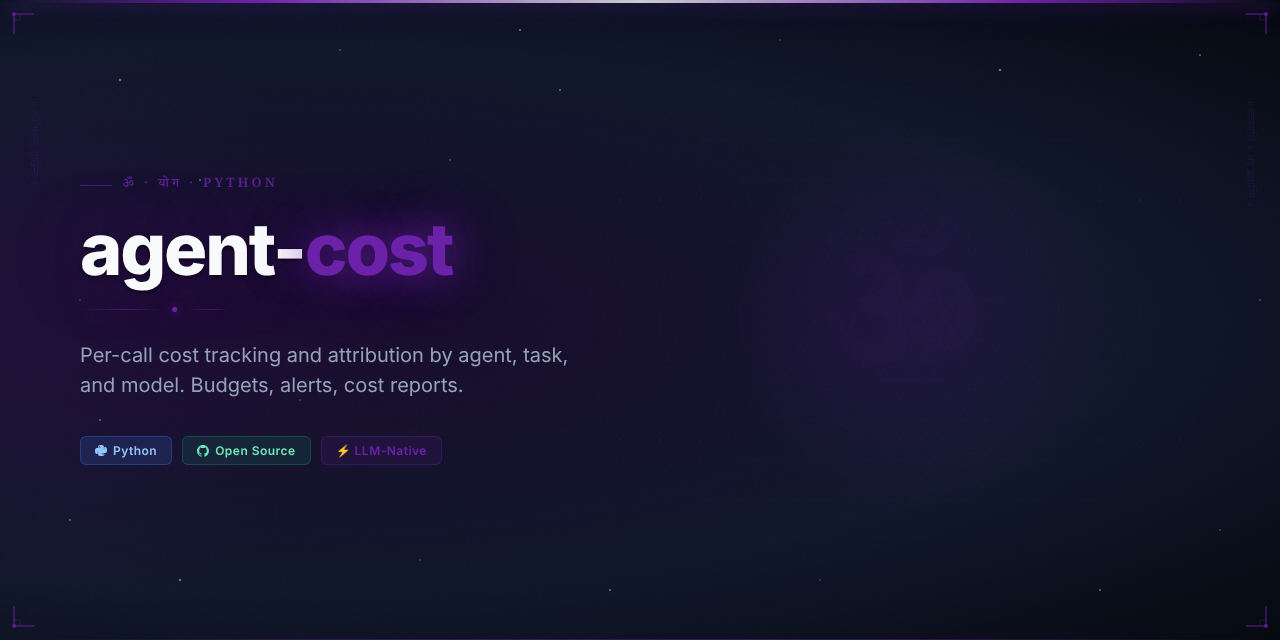
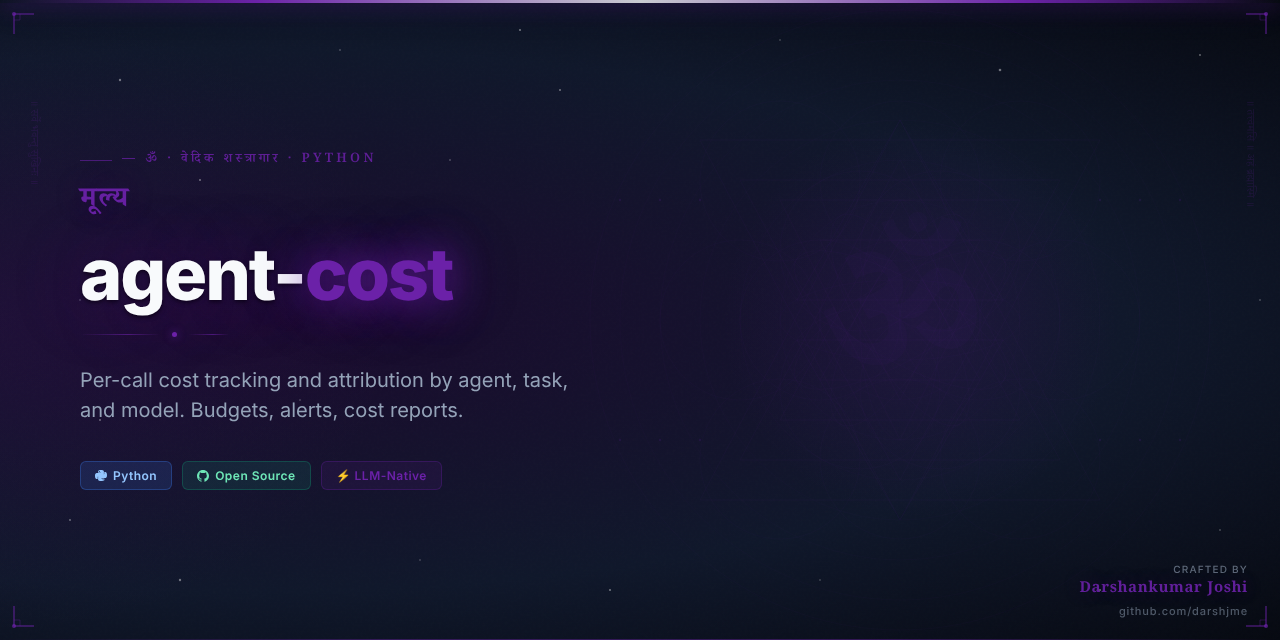
feat: add Vedic Arsenal hero image and updated README
Part of darshjme/arsenal — 100 production-grade Python libraries for LLM agents.
Vedic branding: ancient philosophy meets modern AI engineering.

diff --git a/README.md b/README.md
@@ -1,10 +1,12 @@
 <div align="center">
 
-<img src="assets/agent-cost-hero.png" alt="agent-cost — Vedic Arsenal" width="100%" />
+<img src="assets/agent-cost-hero.png" alt="agent-cost — Vedic Arsenal by Darshankumar Joshi" width="100%" />
 
 # 🔮 agent-cost
 
-### *मूल्य* — Mulya — the true value of computational dharma
+<h3><em>मूल्य</em></h3>
+
+> *Mulya — the true value of computational dharma*
 
 **Per-call cost tracking and attribution by agent, task, and model. Budgets, alerts, cost reports.**
 
@@ -39,6 +41,19 @@ Or clone directly:
 git clone https://github.com/darshjme/agent-cost.git
 cd agent-cost
 pip install -e .
+```
+
+## How It Works
+
+```mermaid
+flowchart LR
+    A[Input] --> B[agent-cost]
+    B --> C{Process}
+    C -- Success --> D[Output]
+    C -- Error --> E[Handle / Retry]
+    E --> B
+    style B fill:#6b21a8,color:#fff
+    note["Cost — Zero Dependencies"]
 ```
 
 ## Quick Start
@@ -90,7 +105,7 @@ MIT — use freely, build freely.
 
 <div align="center">
 
-**Built with 🔮 by [Darshankumar Joshi](https://github.com/darshjme)**
+**Built with 🔮 by [Darshankumar Joshi](https://github.com/darshjme)** · [@thedarshanjoshi](https://twitter.com/thedarshanjoshi)
 
 *"कर्मण्येवाधिकारस्ते मा फलेषु कदाचन"*
 *Your right is to action alone, never to the fruits thereof.*
